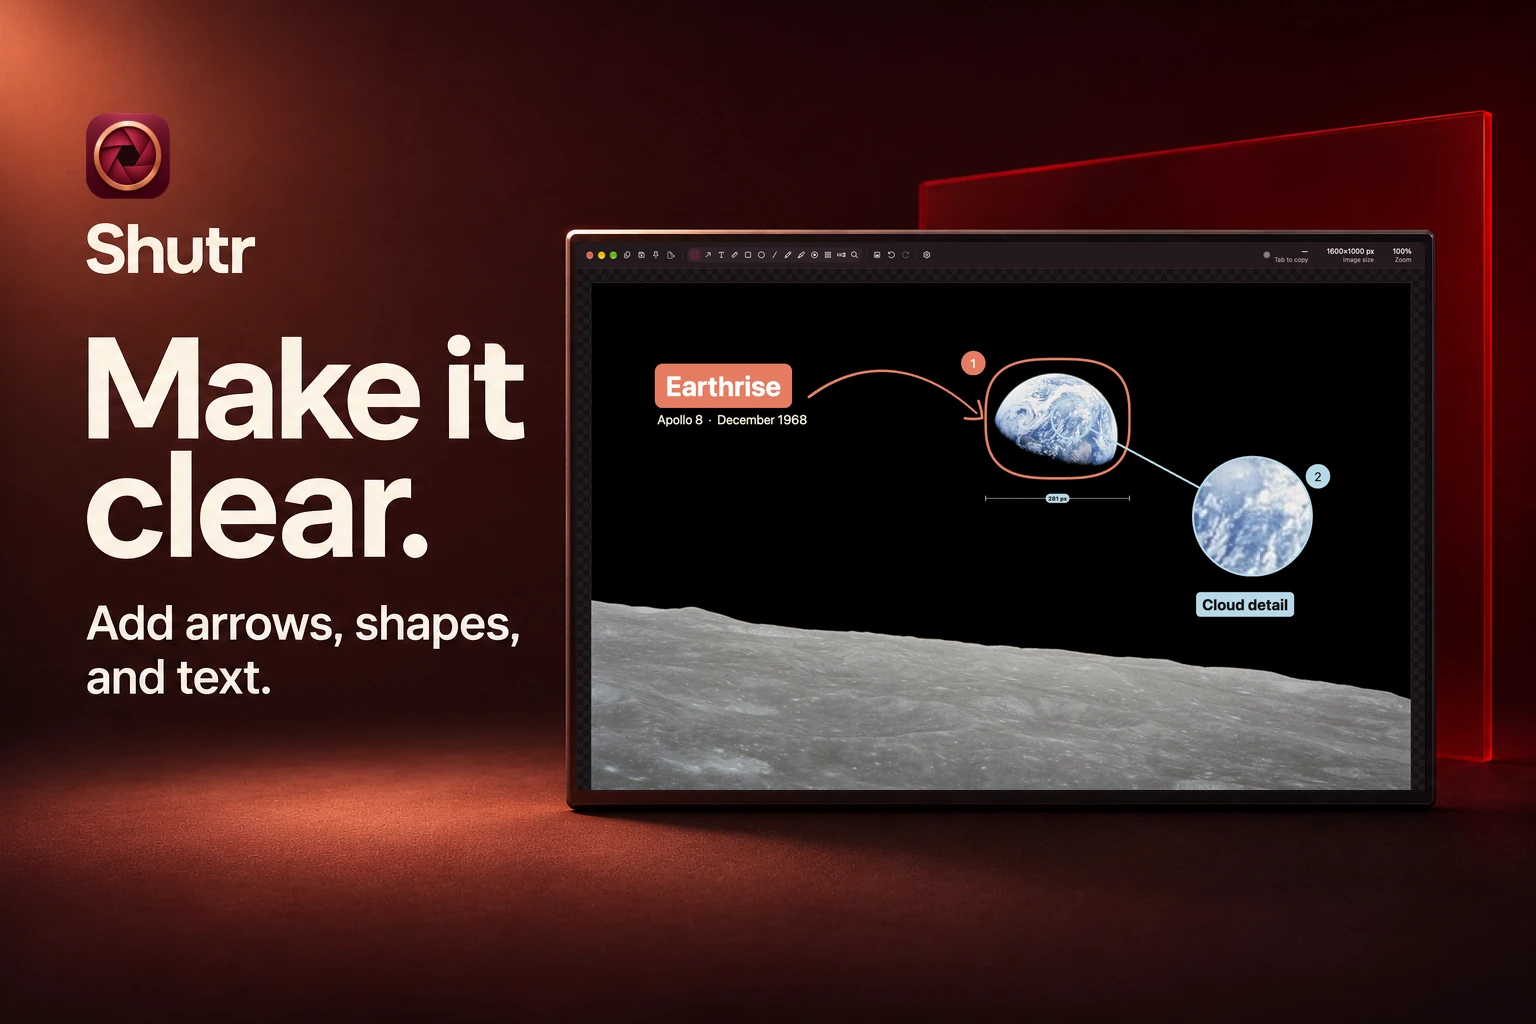
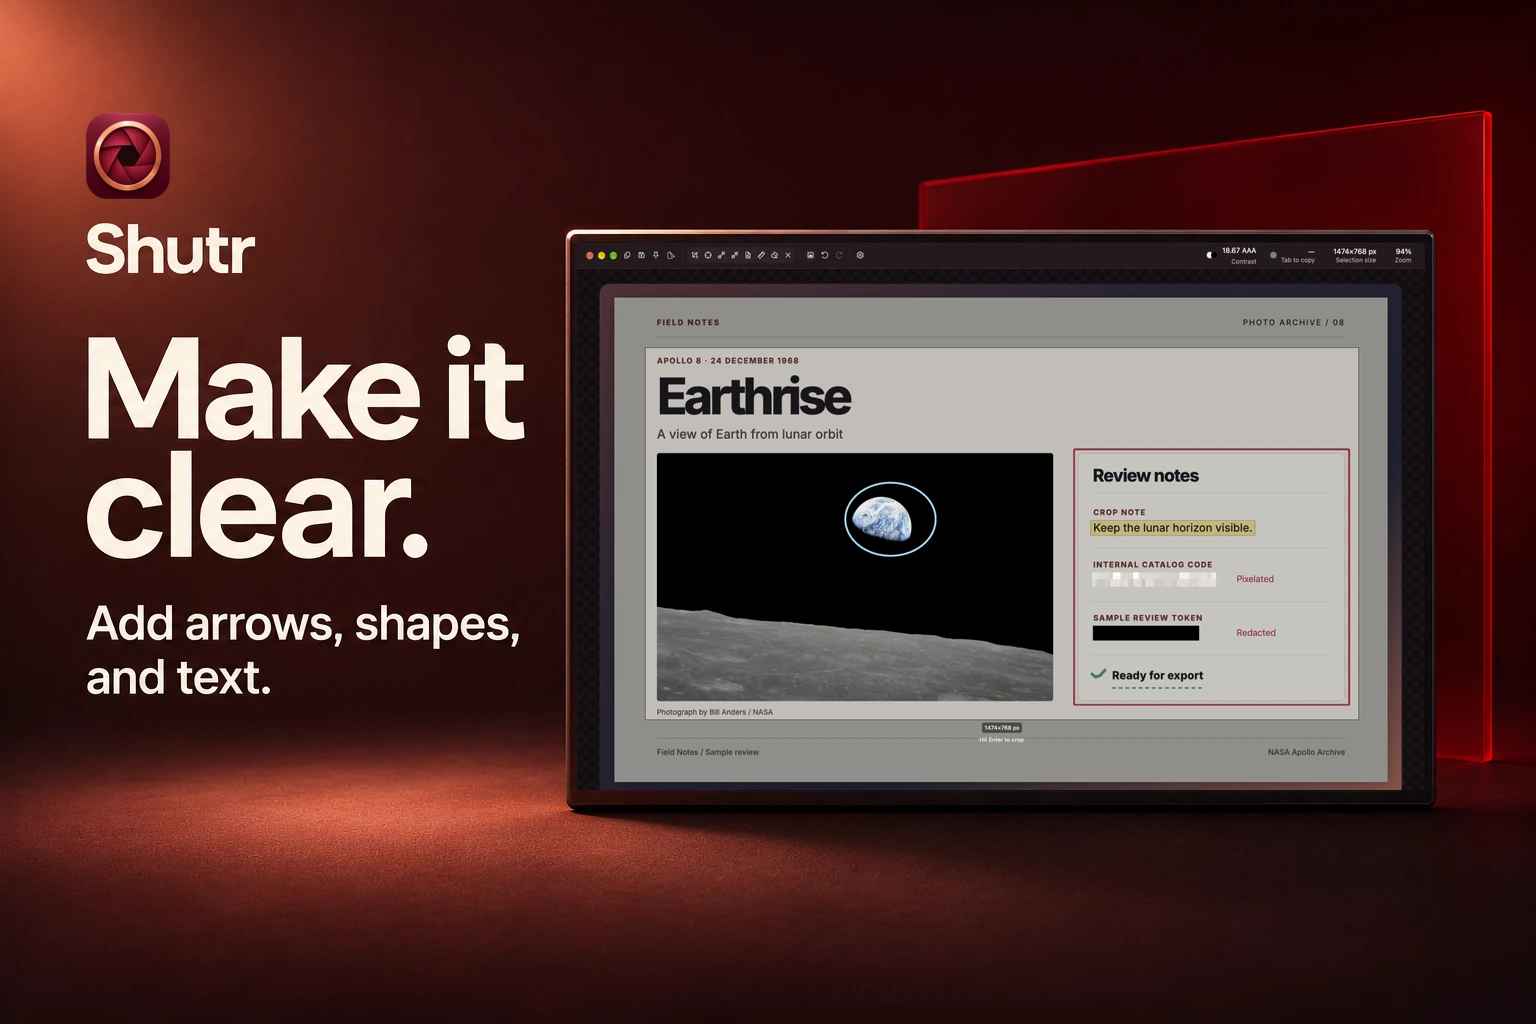
Demonstrate markup and redaction in Shutr’s editor

Changed region(s): [[0.375, 0.2188, 0.9375, 0.7812]]

diff --git a/README.md b/README.md
@@ -25,8 +25,8 @@ Shutr is open source under the MIT license. Downloads are available for macOS 15
 
 The [product metadata](metadata.json) lists artwork paths relative to this directory and links to the release. The portfolio consumes this directory from its Shutr submodule.
 
-- Brand assets include the [app icon](assets/icon.png) and [editor showcase](assets/cover.webp). The [original editor screenshot](assets/editor-screenshot.webp) is available for press use.
-- The [editor tools sheet](assets/tool-showcase.webp) shows Shutr’s selection and drawing tools in use.
+- Brand assets include the [app icon](assets/icon.png) and [editor showcase](assets/cover.webp).
+- The [editor tools sheet](assets/tool-showcase.webp) combines two native macOS captures. The unframed [markup and measurement screenshot](assets/editor-screenshot.webp) and [highlight, redact, and crop screenshot](assets/editor-review-screenshot.webp) are available for press use.
 - Real Shutr screenshots composited into studio scenes show [selecting a region](assets/capture.webp), [annotating](assets/annotate.webp), and [pinning](assets/share.webp).
 - The Earthrise scenes use [Apollo 8’s Earthrise photograph](https://science.nasa.gov/resource/apollo-8s-iconic-earthrise/) by NASA and Bill Anders.
 
